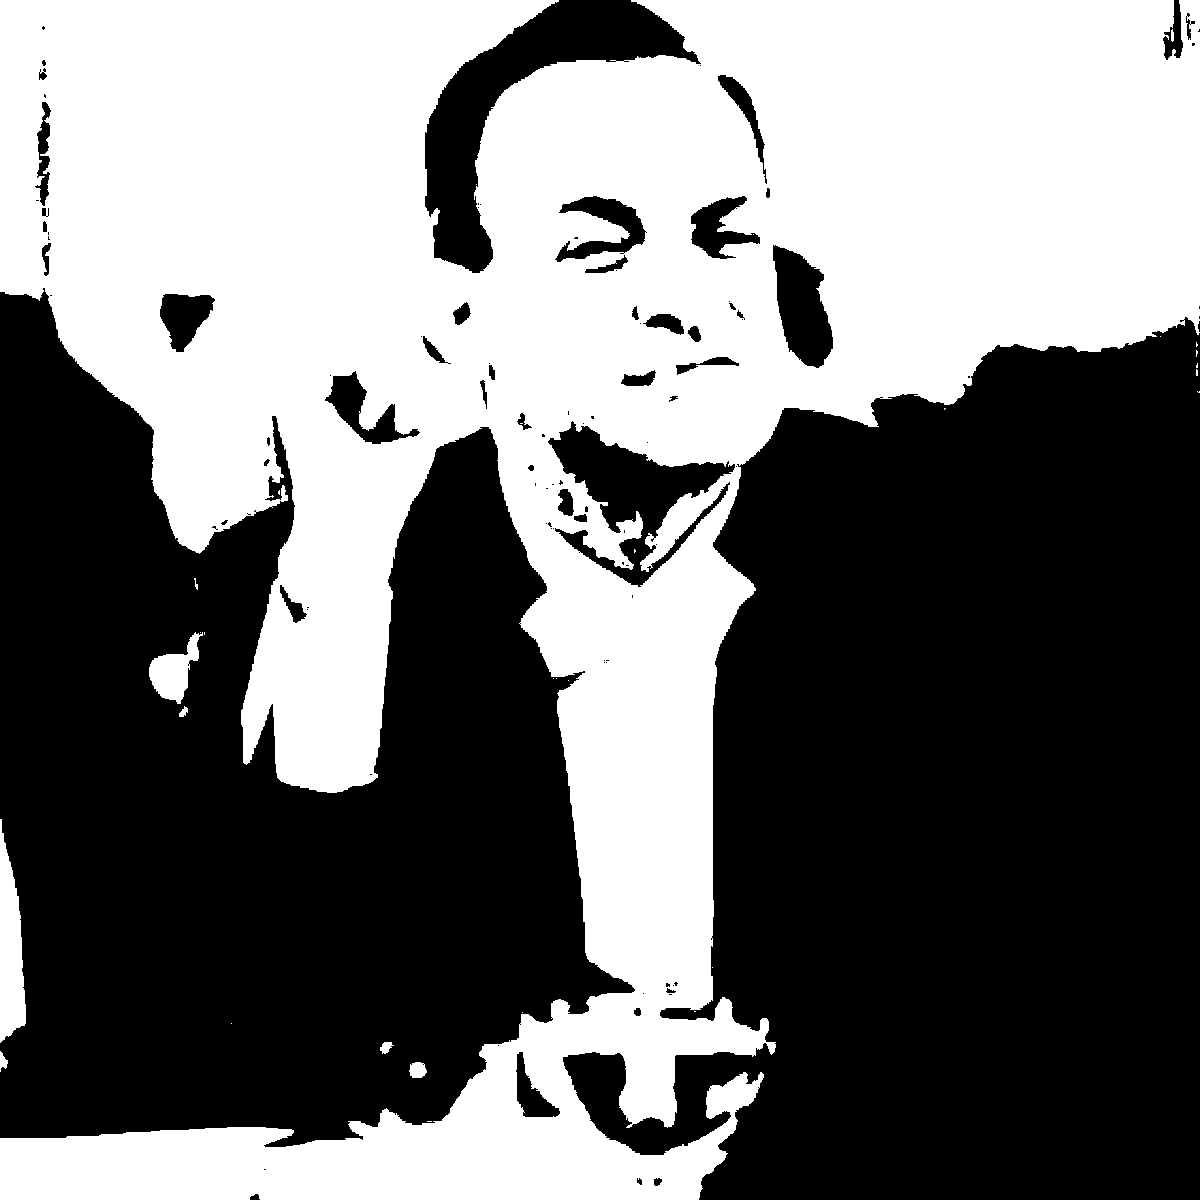
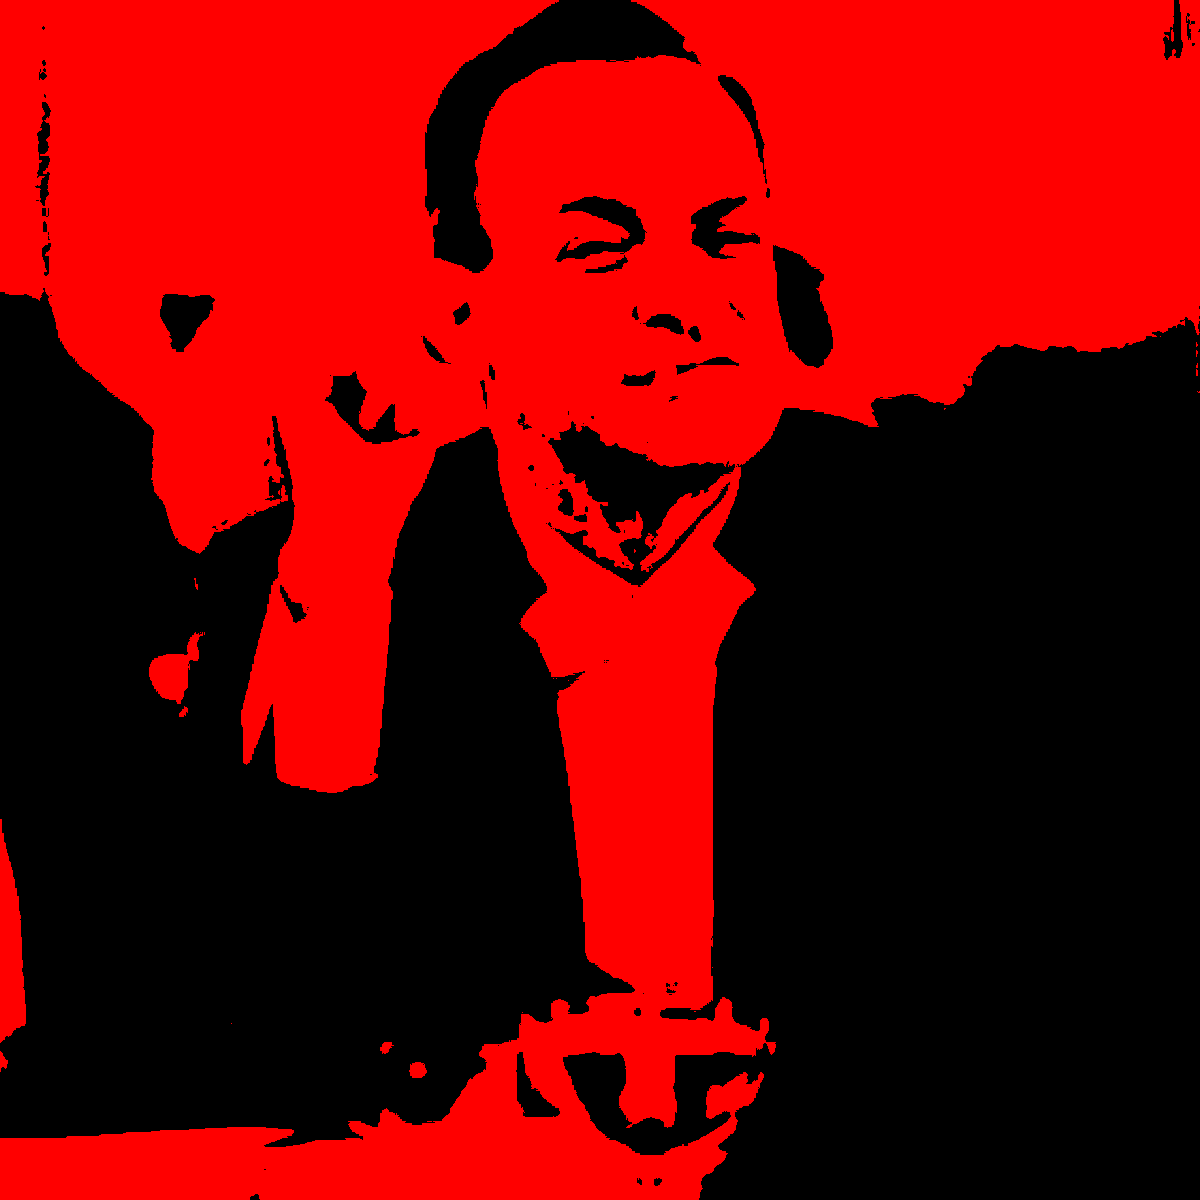
added red

diff --git a/run.py b/run.py
@@ -21,51 +21,56 @@ def make_stencils(image_name,contrast_factor,hi_lim,lo_lim):
 
     # make 3 stencils
 
-    black = 0
-    grey  = 100
-    light_grey = 200
-    white =256
+    black = (0,0,0)
+    grey  = (100,100,100)
+    light_grey = (200,200,200)
+    white =(256,256,256)
+    red = (256,0,0)
 
     print('stencil config hi_lim = {}, load = {}, 3 stencil'.format(hi_lim,lo_lim))
     #stencil A dark cols
     a_img = e_img.copy()
+    a_img = a_img.convert('RGB')
     a_pixelsNew = a_img.load()
     import numpy as np
     for i in range(a_img.size[0]):
         for j in range(a_img.size[1]):
-         #   print(a_pixelsNew[i,j])
-            if a_pixelsNew[i,j] <= lo_lim:
+      #      print(a_pixelsNew[i,j])
+
+            if np.mean(a_pixelsNew[i,j]) <= lo_lim:
                 a_pixelsNew[i,j] = black
             else:
-                a_pixelsNew[i,j] = white
-
+                a_pixelsNew[i,j] = red
+                
     a_img.save('a_stencil_darks.png')
 
     #stencil b mid cols
     b_img = e_img.copy()
+    b_img = b_img.convert('RGB')
     b_pixelsNew = b_img.load()
     import numpy as np
     for i in range(b_img.size[0]):
         for j in range(b_img.size[1]):
             #print(pixelsNew[i,j])
-            if lo_lim <= b_pixelsNew[i,j] < hi_lim:
-                b_pixelsNew[i,j] = black
+            if lo_lim <= np.mean(b_pixelsNew[i,j]) < hi_lim:
+                b_pixelsNew[i,j] = grey
             else:
-                b_pixelsNew[i,j] = white
+                b_pixelsNew[i,j] = red
 
     b_img.save('b_stencil_mids.png')
 
     #stencil c light cols
     c_img = e_img.copy()
+    c_img = c_img.convert('RGB')
     c_pixelsNew = c_img.load()
     import numpy as np
     for i in range(c_img.size[0]):
         for j in range(c_img.size[1]):
             #print(pixelsNew[i,j])
-            if c_pixelsNew[i,j] >= hi_lim:
-                c_pixelsNew[i,j] = black
-            else:
+            if np.mean(c_pixelsNew[i,j]) >= hi_lim:
                 c_pixelsNew[i,j] = white
+            else:
+                c_pixelsNew[i,j] = red
 
     c_img.save('c_stencil_lights.png')
 
